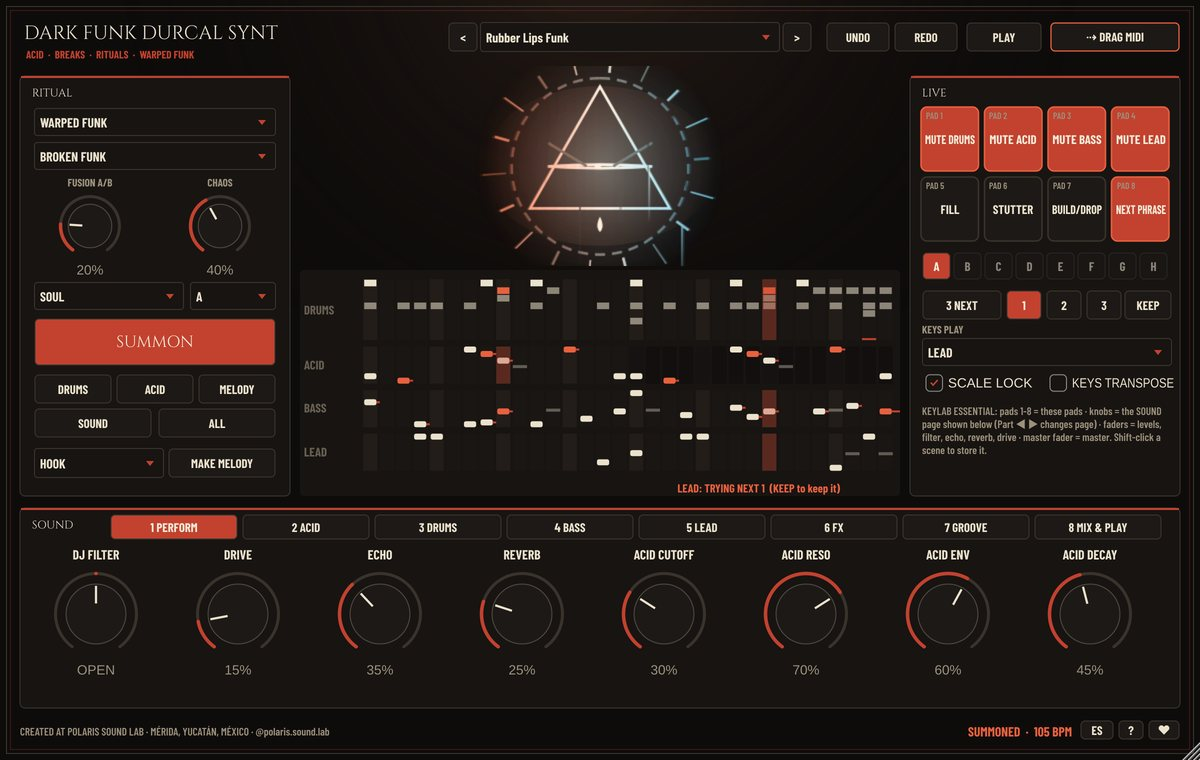
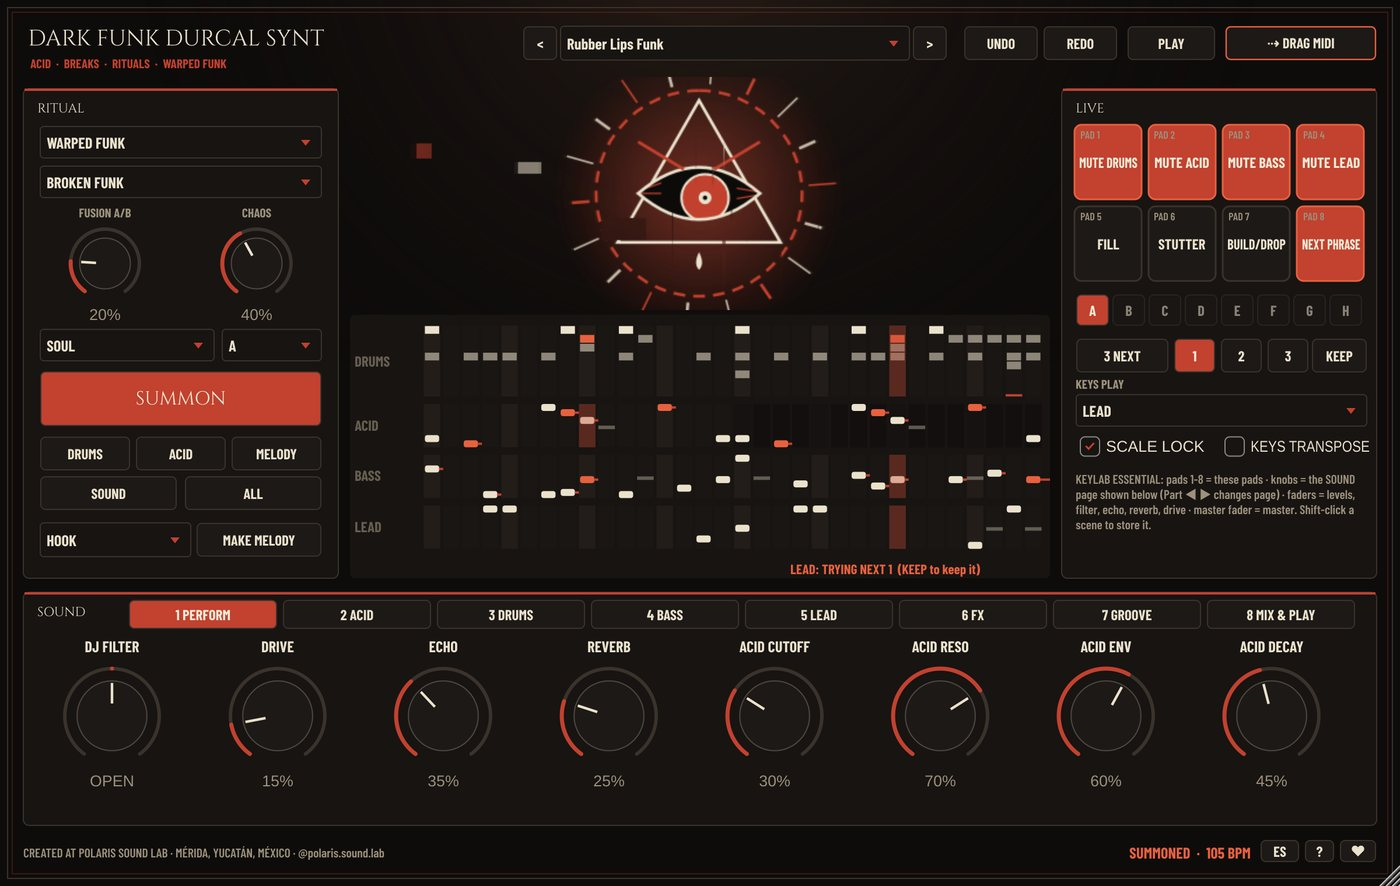
Eye: back to its original colours (bone and blood); the drips, mosaic and tears stay
Claude-Session: https://claude.ai/code/session_01LPCv7MKbRG3951mfi8dayc

diff --git a/Source/PluginEditor.cpp b/Source/PluginEditor.cpp
@@ -80,9 +80,8 @@ juce::Label* LnF::createSliderTextBox(juce::Slider& s) {
 class EyeView : public juce::Component {
 public:
     explicit EyeView(DfdProcessor& p) : proc(p) {}
-    // SMEAR: the eye is drawn into an image, then lit like light through a broken screen: warm (ember, rose) on the
-    // left, white-hot in the middle, cold (cyan, steel) on the right; columns of pixels dragged down (a pixel sort),
-    // blocks of mosaic, a soft sideways bloom. Louder and on a stutter or a build: more of all of it.
+    // SMEAR: the eye is drawn into an image (its original bone and blood colours), then columns of pixels are dragged
+    // down (a pixel sort), blocks of mosaic and torn rows appear, and a soft sideways bloom. Louder and on a stutter or a build: more of all of it.
     void paint(juce::Graphics& g) override {
         const int W = juce::jmax(8, getWidth()), H = juce::jmax(8, getHeight());
         if (img.getWidth() != W || img.getHeight() != H) img = juce::Image(juce::Image::ARGB, W, H, true);
@@ -93,29 +92,18 @@ public:
         smear(amt);
         // the bloom under it: the white-hot core, warm to the left, cold to the right
         auto c = getLocalBounds().toFloat().getCentre(); float r = juce::jmin((float)W, (float)H) * 0.42f;
-        juce::ColourGradient core(juce::Colour(0xfffff4e6).withAlpha(0.30f + lv * 0.35f), c.x, c.y, juce::Colour(0x00ff6a4a), c.x + r * 1.4f, c.y, true);
+        juce::ColourGradient core(BONE.withAlpha(0.06f + lv * 0.10f), c.x, c.y, BLOOD.withAlpha(0.0f), c.x + r * 1.4f, c.y, true);
         g.setGradientFill(core); g.fillEllipse(juce::Rectangle<float>(r * 2.8f, r * 1.9f).withCentre(c));
         g.drawImageAt(img, 0, 0);
         // a ghost of it, shifted and soft (the bloom)
-        g.setOpacity(0.25f + lv * 0.2f); g.drawImage(img, juce::Rectangle<float>(-6.0f, 0.0f, (float)W + 12.0f, (float)H));
+        g.setOpacity(0.12f + lv * 0.12f); g.drawImage(img, juce::Rectangle<float>(-6.0f, 0.0f, (float)W + 12.0f, (float)H));
     }
 private:
     juce::Image img; juce::Random rnd;
-    static juce::Colour split(float u) {                 // 0 left .. 1 right
-        static const juce::uint32 C[] = {0xffff3a14, 0xffff4f2e, 0xffff8a66, 0xfffff4e6, 0xff7fe0ff, 0xff22b0ff, 0xff2a5fd6};
-        float p = juce::jlimit(0.0f, 0.9999f, u) * 6.0f; int i = (int)p;
-        return juce::Colour(C[i]).interpolatedWith(juce::Colour(C[i + 1]), p - (float)i);
-    }
     void smear(float amt) {
         const int W = img.getWidth(), H = img.getHeight();
         juce::Image::BitmapData bd(img, juce::Image::BitmapData::readWrite);
-        juce::Colour lut[64]; for (int k = 0; k < 64; ++k) lut[k] = split(k / 63.0f);
-        for (int y = 0; y < H; ++y)                       // the warm / cold split (keeps the brightness)
-            for (int x = 0; x < W; ++x) {
-                auto px = bd.getPixelColour(x, y); if (px.getAlpha() == 0) continue;
-                auto tc = lut[x * 63 / juce::jmax(1, W - 1)]; float br = px.getPerceivedBrightness();
-                bd.setPixelColour(x, y, tc.withMultipliedBrightness(juce::jmin(1.0f, br * 1.25f)).withAlpha(px.getAlpha()));
-            }
+        // (the original colours: bone and blood, no tint)
         const int n = 6 + (int)(amt * 60);               // pixel sort: a column dragged down from where it is
         for (int k = 0; k < n; ++k) {
             int x = rnd.nextInt(W), y0 = rnd.nextInt(juce::jmax(1, H * 4 / 5)), len = (int)(H * (0.04f + rnd.nextFloat() * (0.12f + amt * 0.45f)));
@@ -130,7 +118,7 @@ private:
             int nb = 1 + (int)(amt * 5);
             for (int k = 0; k < nb; ++k) {
                 int s = 4 + rnd.nextInt(juce::jmax(2, H / 12)), bx = rnd.nextInt(juce::jmax(1, W - 3 * s)), by = rnd.nextInt(juce::jmax(1, H - s));
-                auto col = bd.getPixelColour(bx + s / 2, by + s / 2); if (col.getAlpha() < 20) col = split(bx / (float)W).withAlpha(0.5f);
+                auto col = bd.getPixelColour(bx + s / 2, by + s / 2); if (col.getAlpha() < 20) col = (rnd.nextBool() ? BONE : BLOOD).withAlpha(0.5f);
                 int bw = s * (1 + rnd.nextInt(3));
                 for (int y = by; y < juce::jmin(H, by + s); ++y) for (int x = bx; x < juce::jmin(W, bx + bw); ++x) bd.setPixelColour(x, y, col);
             }
